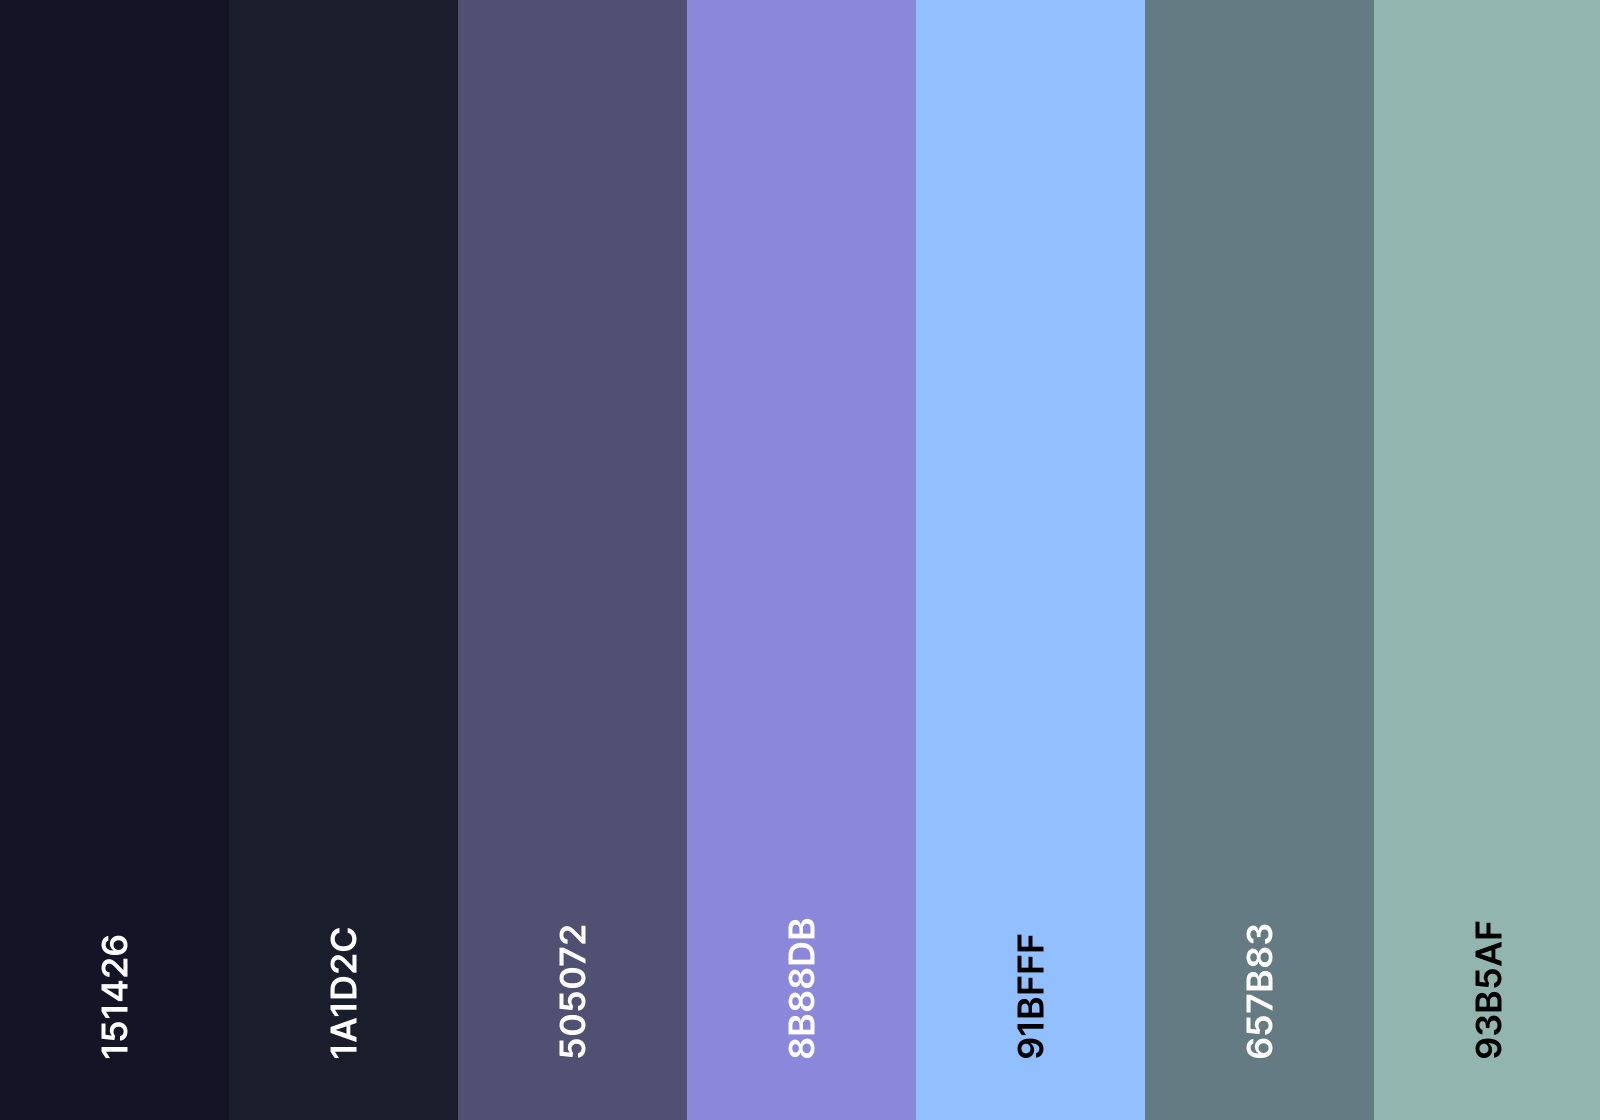
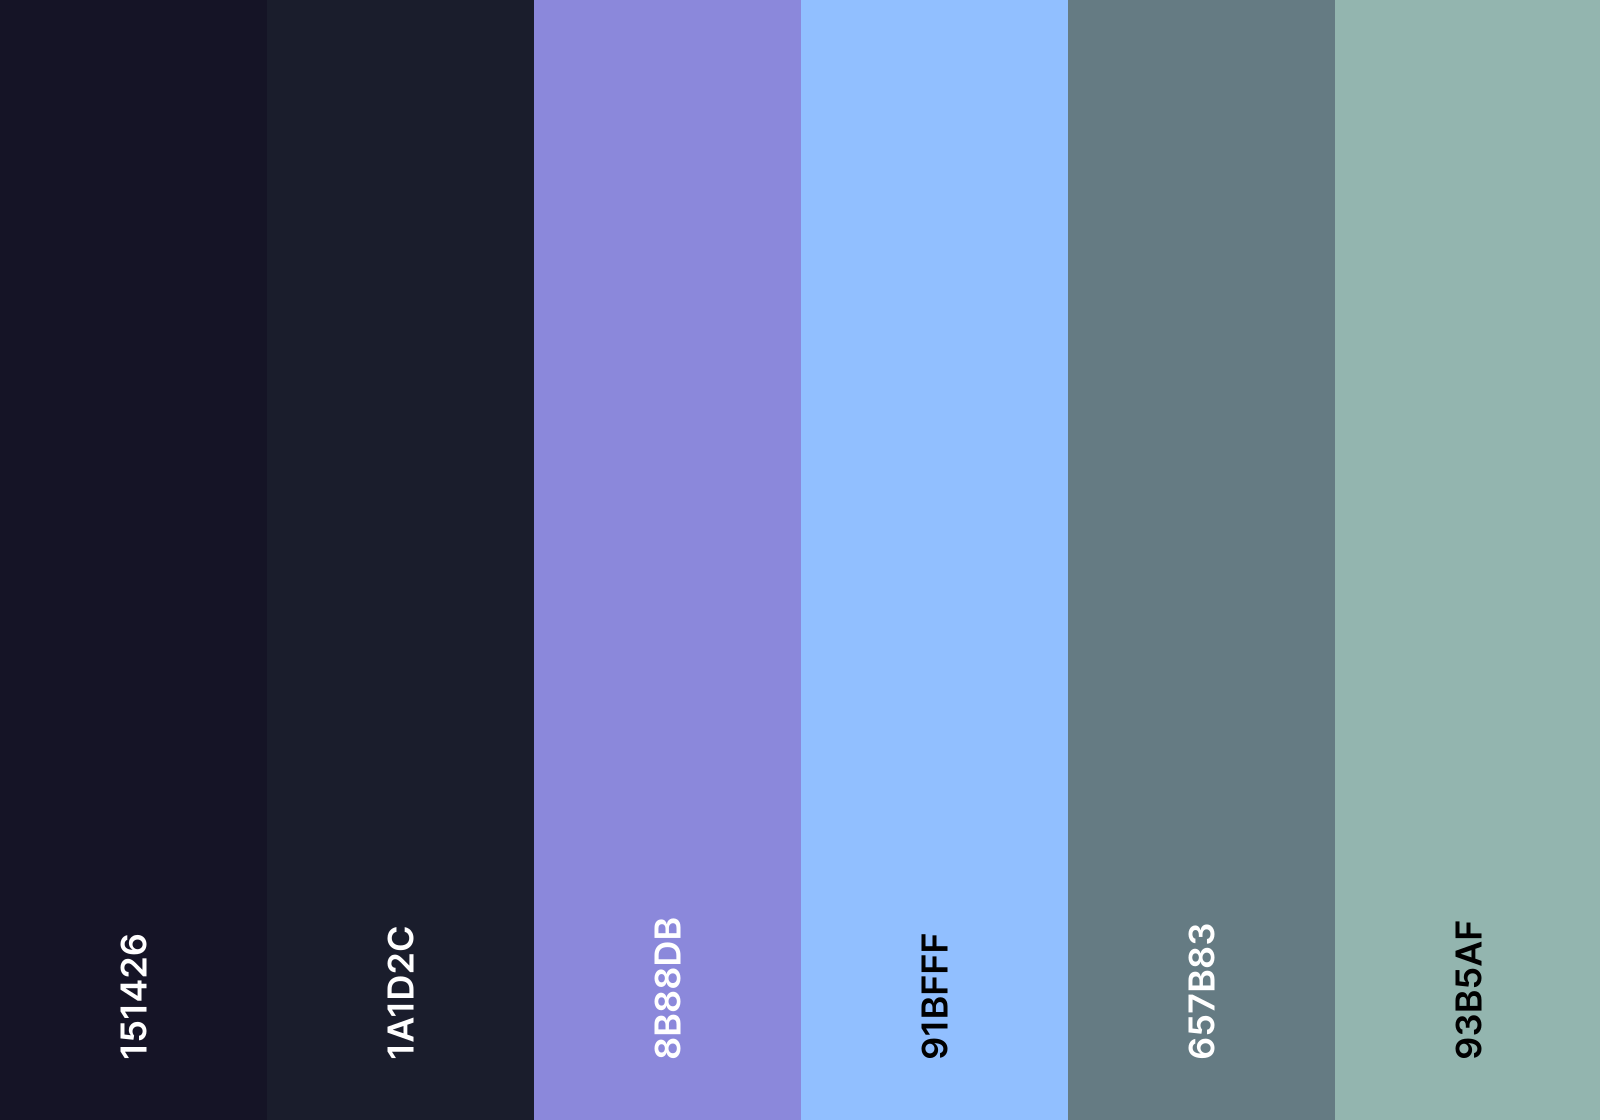
remove #505072 as a colour borders now use #657b83

diff --git a/themes/DarkBlueVencord.theme.css b/themes/DarkBlueVencord.theme.css
@@ -11,7 +11,6 @@
     /* --- Colour scheme --- */
     --db-background: #1a1d2c;
     --db-pane: #151426;
-    --db-border: #505072;
     --db-accent-1: #91bfff;
     --db-accent-2: #8b88dB;
     --db-text-normal: #93b5af;
